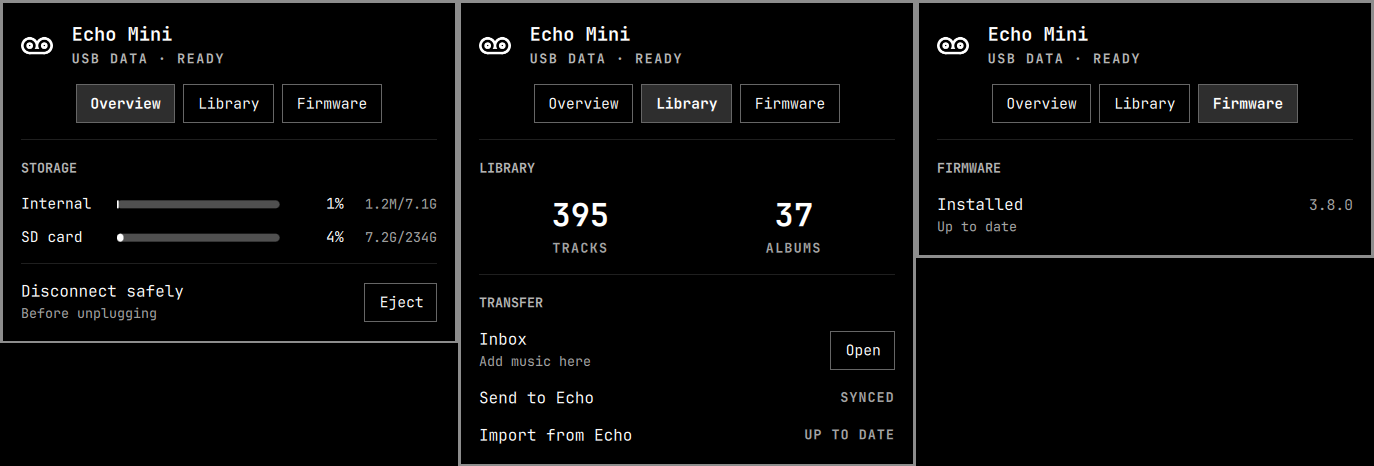
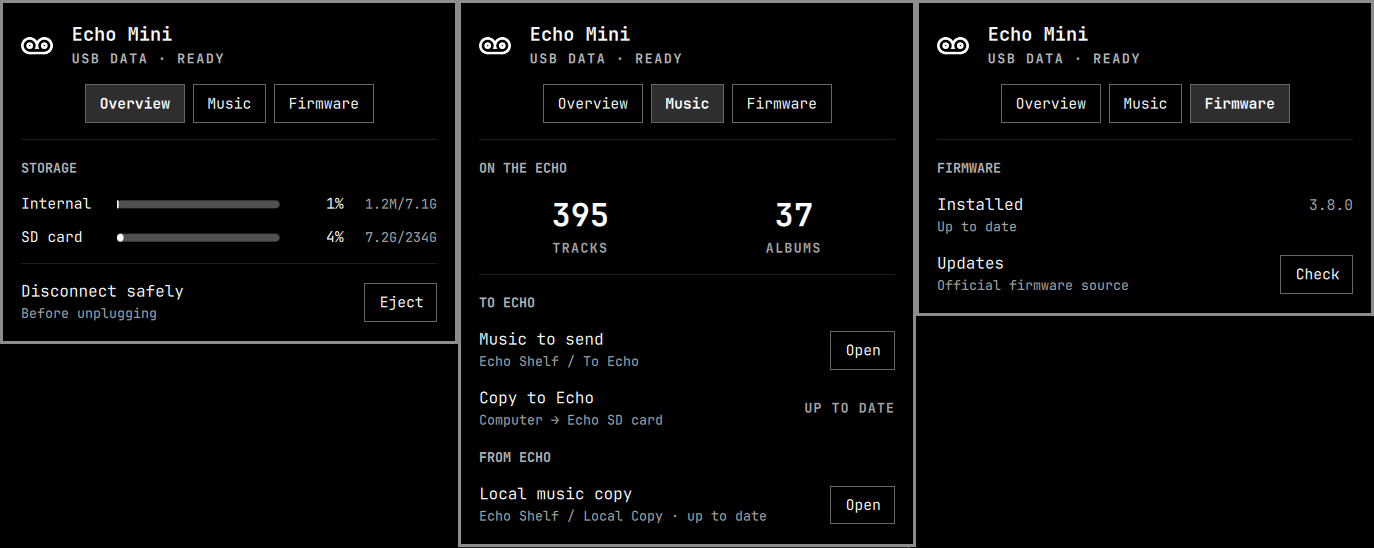
Clarify music flow and DAC mode

diff --git a/BarWidget.qml b/BarWidget.qml
@@ -79,11 +79,10 @@ Panel {
 
   function connectionMeta() {
     if (mode === "error") return "PLUGIN ERROR"
-    if (detailsProbe.running) return mode === "dac" ? "USB DAC · UPDATING" : "USB DATA · UPDATING"
-    if (detailsRefreshFailed) return mode === "dac"
-      ? (refreshRetryCount < 3 ? "USB DAC · RETRYING" : "USB DAC · REFRESH FAILED")
-      : (refreshRetryCount < 3 ? "USB DATA · RETRYING" : "USB DATA · REFRESH FAILED")
-    if (mode === "dac") return "USB DAC"
+    if (mode === "dac") return "USB DAC MODE · AUDIO ONLY"
+    if (detailsProbe.running) return "USB DATA · UPDATING"
+    if (detailsRefreshFailed) return refreshRetryCount < 3
+      ? "USB DATA · RETRYING" : "USB DATA · REFRESH FAILED"
     if (details.device_error) return "USB DATA · CHECK DEVICES"
     if (internalMounted && sdMounted) return "USB DATA · READY"
     if (mountRetryCount > 0 && ((internalPresent && !internalMounted) || (sdPresent && !sdMounted)))
@@ -108,7 +107,7 @@ Panel {
     if (syncUpdated > 0) work.push(syncUpdated + " updated")
     if (syncSkipped > 0) work.push(syncSkipped + " skipped")
     if (syncUnsupported > 0) work.push(syncUnsupported + " unsupported audio")
-    return work.join(" · ")
+    return work.length > 0 ? work.join(" · ") : "Computer → Echo SD card"
   }
 
   function importSummary() {
@@ -119,7 +118,7 @@ Panel {
     if (importConflicts > 0) work.push(importConflicts + " conflict" + (importConflicts === 1 ? " · local kept" : "s · local kept"))
     if (importSkipped > 0) work.push(importSkipped + " skipped")
     if (importUnsupported > 0) work.push(importUnsupported + " unsupported audio")
-    return work.join(" · ")
+    return work.length > 0 ? work.join(" · ") : "Echo Shelf / Local Copy · up to date"
   }
 
   function firmwareSummary() {
@@ -220,15 +219,15 @@ Panel {
   }
 
   function requestImport() {
-    if (mode !== "data" || !deviceReady || !sdMounted || actionRunning || importCurrent) return
-    if (importNew === 0 && importConflicts > 0) {
+    if (mode !== "data" || !deviceReady || !sdMounted || actionRunning) return
+    if (importCurrent || (importNew === 0 && importConflicts > 0)) {
       if (!openLibraryProbe.running) openLibraryProbe.running = true
       return
     }
     if (!importArmed) {
       cancelArms(); importArmed = true; return
     }
-    startAction("library", "Checking Echo library", 1)
+    startAction("library", "Checking music on Echo", 1)
     importProbe.running = true
   }
 
@@ -339,6 +338,7 @@ Panel {
       if (modeChanged || connectionChanged) {
         root.cancelArms()
         root.clearAction()
+        root.activeTab = "overview"
         root.detailsRefreshFailed = false
         root.mountRetryCount = nextMode === "data" ? 5 : 0
         root.refreshRetryCount = 0
@@ -396,14 +396,14 @@ Panel {
     id: importProbe
     command: [root.helperPath, "--import-from-echo"]
     stdout: SplitParser { onRead: function(line) { root.handleActionLine(line) } }
-    onExited: function(exitCode) { root.finishAction(exitCode, "Library updated", "Import failed") }
+    onExited: function(exitCode) { root.finishAction(exitCode, "Local music copy updated", "Copy failed") }
   }
 
   Process {
     id: syncProbe
     command: [root.helperPath, "--sync-to-echo"]
     stdout: SplitParser { onRead: function(line) { root.handleActionLine(line) } }
-    onExited: function(exitCode) { root.finishAction(exitCode, "Echo library updated", "Sync failed") }
+    onExited: function(exitCode) { root.finishAction(exitCode, "Music copied to Echo", "Copy failed") }
   }
 
   Process {
@@ -546,7 +546,7 @@ Panel {
       onTextKey: function(text) {
         var key = String(text).toLowerCase()
         if (key === "1" || key === "o") root.activeTab = "overview"
-        else if (key === "2" || key === "l") root.activeTab = "library"
+        else if (key === "2" || key === "l" || key === "m") root.activeTab = "library"
         else if (key === "3" || key === "f") root.activeTab = "firmware"
       }
 
@@ -580,15 +580,16 @@ Panel {
           }
 
           Item {
+            visible: root.mode !== "dac"
             width: parent.width
-            implicitHeight: tabs.implicitHeight
+            implicitHeight: visible ? tabs.implicitHeight : 0
 
             ButtonGroup {
               id: tabs
               anchors.horizontalCenter: parent.horizontalCenter
               options: [
                 { value: "overview", label: "Overview" },
-                { value: "library", label: "Library" },
+                { value: "library", label: "Music" },
                 { value: "firmware", label: "Firmware" }
               ]
               value: root.activeTab
@@ -600,10 +601,10 @@ Panel {
             }
           }
 
-          PanelSeparator { width: parent.width; foreground: root.foreground }
+          PanelSeparator { visible: root.mode !== "dac"; width: parent.width; foreground: root.foreground }
 
           Column {
-            visible: root.activeTab === "overview"
+            visible: root.mode !== "dac" && root.activeTab === "overview"
             width: parent.width
             spacing: Style.space(12)
 
@@ -611,14 +612,6 @@ Panel {
               text: root.mode === "data" ? "STORAGE" : "CONNECTION"
               foreground: root.foreground
               fontFamily: root.fontFamily
-            }
-
-            ValueRow {
-              visible: root.mode === "dac"
-              width: parent.width
-              label: "Connection"
-              value: "USB DAC"
-              caption: "Audio mode"
             }
 
             ValueRow {
@@ -672,11 +665,11 @@ Panel {
           }
 
           Column {
-            visible: root.activeTab === "library"
+            visible: root.mode !== "dac" && root.activeTab === "library"
             width: parent.width
             spacing: Style.space(12)
 
-            PanelSectionHeader { text: "LIBRARY"; foreground: root.foreground; fontFamily: root.fontFamily }
+            PanelSectionHeader { text: "ON THE ECHO"; foreground: root.foreground; fontFamily: root.fontFamily }
 
             Row {
               width: parent.width
@@ -686,13 +679,13 @@ Panel {
             }
 
             PanelSeparator { width: parent.width; foreground: root.foreground }
-            PanelSectionHeader { text: "TRANSFER"; foreground: root.foreground; fontFamily: root.fontFamily }
+            PanelSectionHeader { text: "TO ECHO"; foreground: root.foreground; fontFamily: root.fontFamily }
 
             ActionRow {
               id: inboxRow
               width: parent.width
-              label: "Inbox"
-              caption: "Add music here"
+              label: "Music to send"
+              caption: "Echo Shelf / To Echo"
               buttonText: "Open"
               enabled: !openInboxProbe.running
               onTriggered: root.requestOpenInbox()
@@ -701,10 +694,10 @@ Panel {
             ActionRow {
               id: syncRow
               width: parent.width
-              label: "Send to Echo"
+              label: "Copy to Echo"
               caption: root.syncSummary()
-              statusText: root.syncCurrent ? "SYNCED" : ""
-              buttonText: root.syncArmed ? "Confirm send" : "Send"
+              statusText: root.syncCurrent ? "UP TO DATE" : ""
+              buttonText: root.syncArmed ? "Confirm copy" : "Copy"
               enabled: root.mode === "data" && root.deviceReady && root.sdMounted
                 && !root.actionRunning
                 && !root.syncCurrent
@@ -712,17 +705,18 @@ Panel {
               onTriggered: root.requestSync()
             }
 
+            PanelSectionHeader { text: "FROM ECHO"; foreground: root.foreground; fontFamily: root.fontFamily }
+
             ActionRow {
               id: importRow
               width: parent.width
-              label: "Import from Echo"
+              label: "Local music copy"
               caption: root.importSummary()
-              statusText: root.importCurrent ? "UP TO DATE" : ""
-              buttonText: root.importNew === 0 && root.importConflicts > 0 ? "Open library"
-                : root.importArmed ? "Confirm import" : "Import"
+              buttonText: root.importCurrent ? "Open"
+                : root.importNew === 0 && root.importConflicts > 0 ? "Review"
+                : root.importArmed ? "Confirm copy" : "Copy"
               enabled: root.mode === "data" && root.deviceReady && root.sdMounted
                 && !root.actionRunning
-                && !root.importCurrent
               active: root.importArmed
               onTriggered: root.requestImport()
             }
@@ -731,7 +725,7 @@ Panel {
           }
 
           Column {
-            visible: root.activeTab === "firmware"
+            visible: root.mode !== "dac" && root.activeTab === "firmware"
             width: parent.width
             spacing: Style.space(12)
 

diff --git a/README.md b/README.md
@@ -2,13 +2,14 @@
 
 A small Omarchy Quattro bar widget for the Snowsky Echo Mini: connection and storage at a glance, non-destructive music transfer, safe eject, and a guided firmware flow.
 
-![Overview, Library, and Firmware tabs](docs/tabs.png)
+![Overview, Music, and Firmware tabs](docs/tabs.png)
 
 ## What it shows
 
 - `Overview` — USB Data or DAC state, independent internal/SD mount state, occupied/total storage, usage percentage, and safe eject.
-- `Library` — track and album counts, a one-click Inbox, structured send/import status, and a direct path to review preserved conflicts.
+- `Music` — track and album counts plus two explicit flows: music copied to the Echo and a local copy brought back from it.
 - `Firmware` — the installed version, automatic and manual update checks, and controls only when action is required.
+- In USB DAC mode the panel collapses to audio-only status; tabs and device-management actions appear only in USB Data mode.
 - The bar icon disappears when the player is disconnected.
 - Cached details appear immediately while a fingerprinted background refresh runs.
 
@@ -46,10 +47,14 @@ If Omarchy updates the files but the widget does not reload cleanly, run `omarch
 
 ## Music transfer
 
-Echo Shelf creates these folders when needed:
+Echo Shelf groups both music folders under one directory:
 
-- `~/Music/Echo Shelf Inbox` — add music here, then use **Send to Echo**.
-- `~/Music/Echo Shelf Library` — receives missing music from **Import from Echo**.
+- `~/Music/Echo Shelf/To Echo` — staging area for **computer → Echo**. Add music here, then use **Copy to Echo**.
+- `~/Music/Echo Shelf/Local Copy` — local safety copy for **Echo → computer**. Echo Shelf never sends music from this folder.
+
+Existing `Echo Shelf Inbox` and `Echo Shelf Library` folders are moved into this grouped layout automatically when there is no destination conflict.
+
+Firmware backups are separate from music and live in `~/.local/share/echo-shelf/firmware-backups`. Echo Shelf moves the old `~/Music/Echo Shelf Firmware Backups` folder there automatically when there is no destination conflict.
 
 The expected player layout is:
 
@@ -83,7 +88,7 @@ Install remains a deliberate physical flow: safely eject, disconnect, remove the
 | Key | Action |
 | --- | --- |
 | `o` / `1` | Overview |
-| `l` / `2` | Library |
+| `m` / `l` / `2` | Music |
 | `f` / `3` | Firmware |
 | `←` / `→` | Previous or next tab |
 | `Tab` / `Shift+Tab` | Focus available actions |
